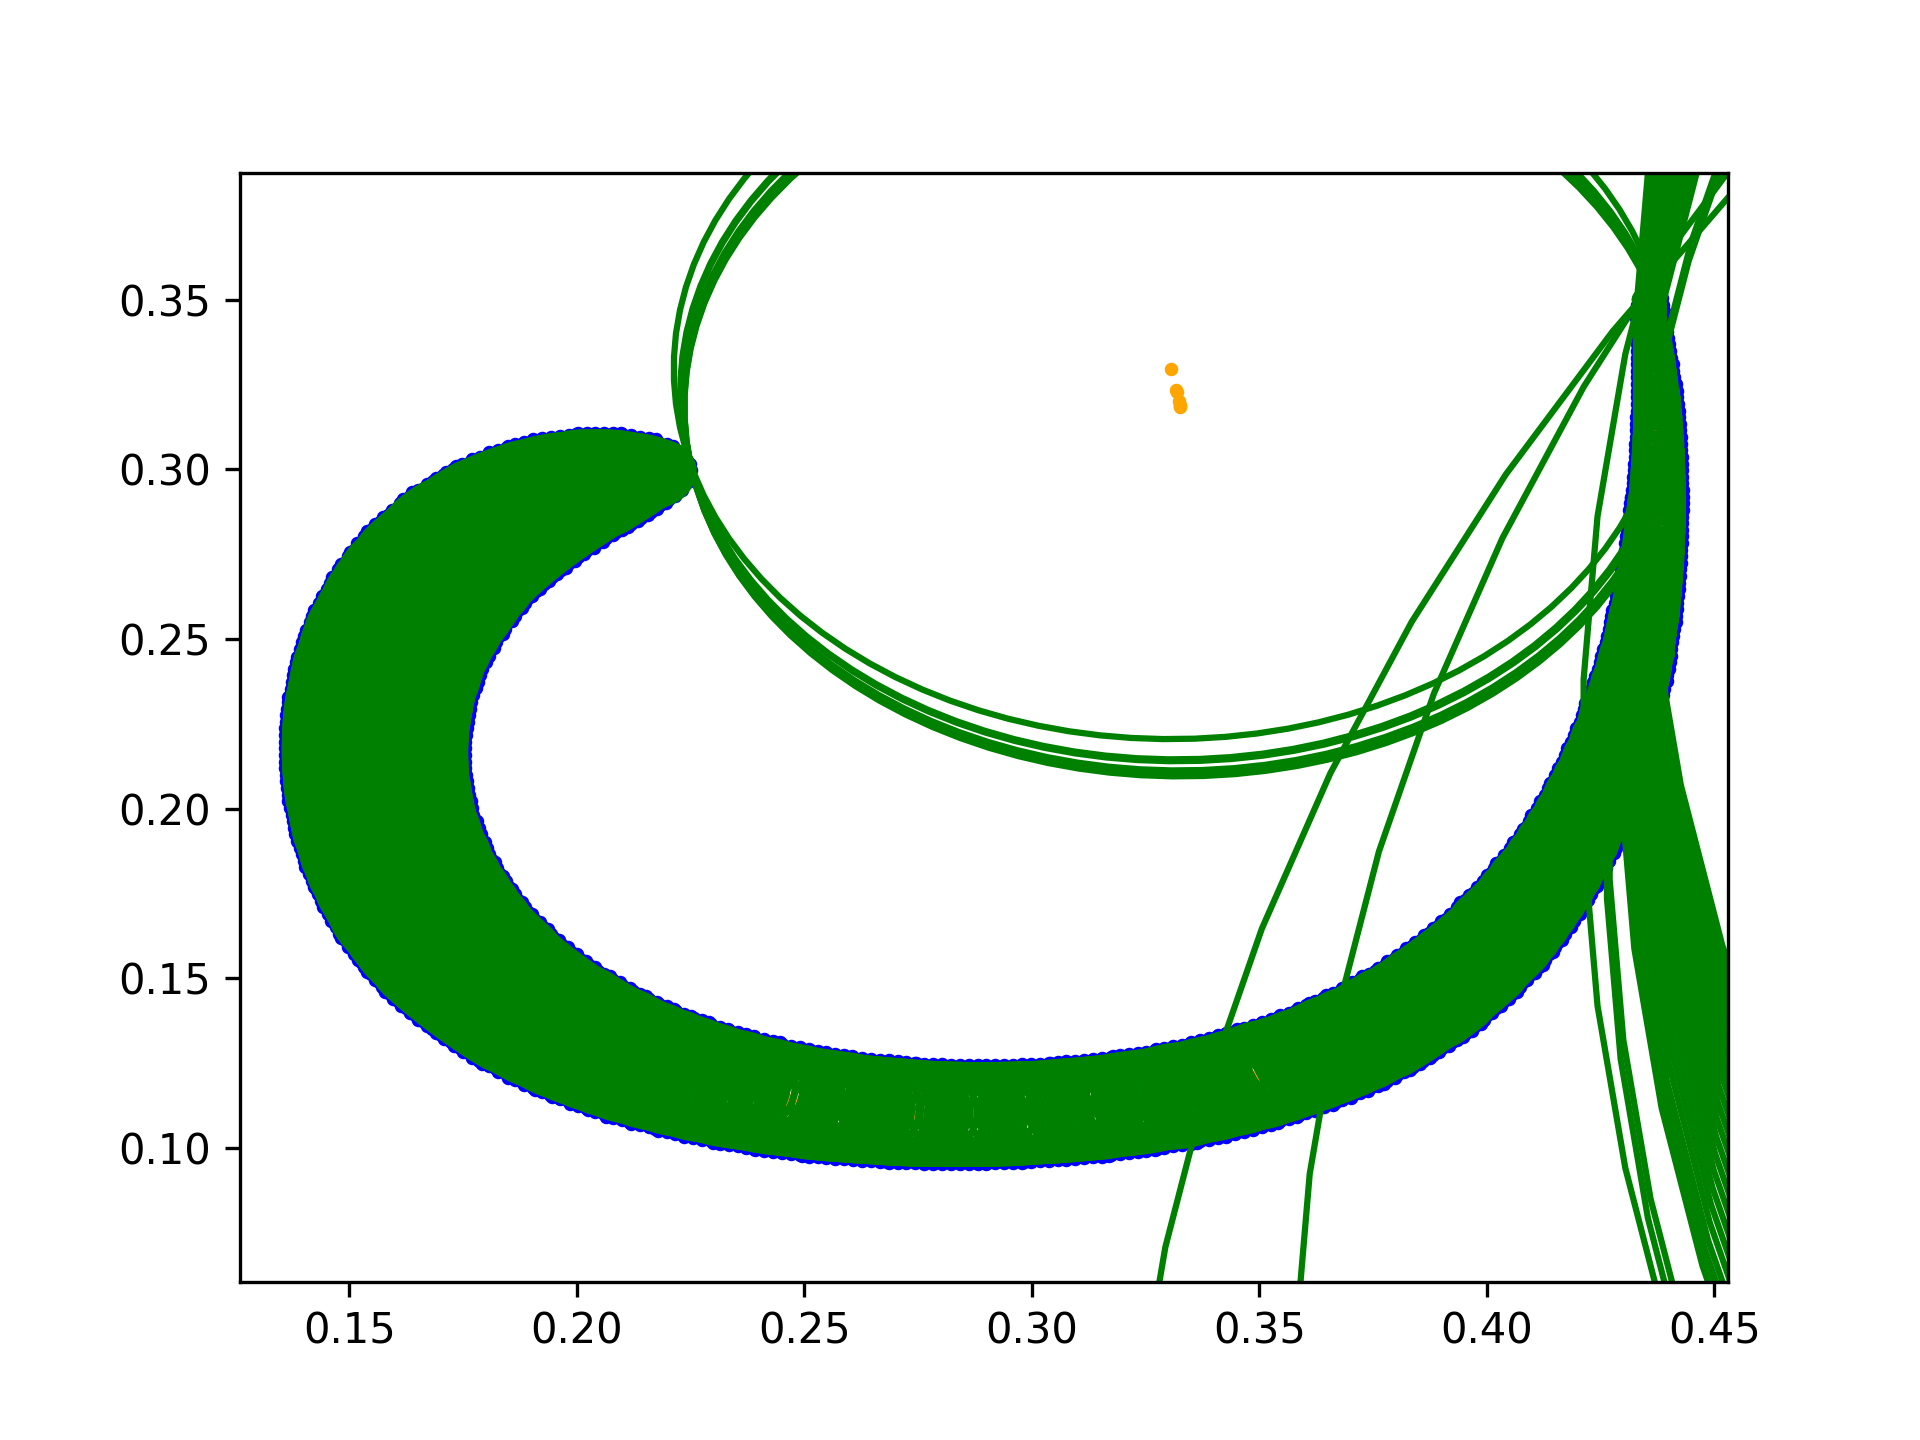
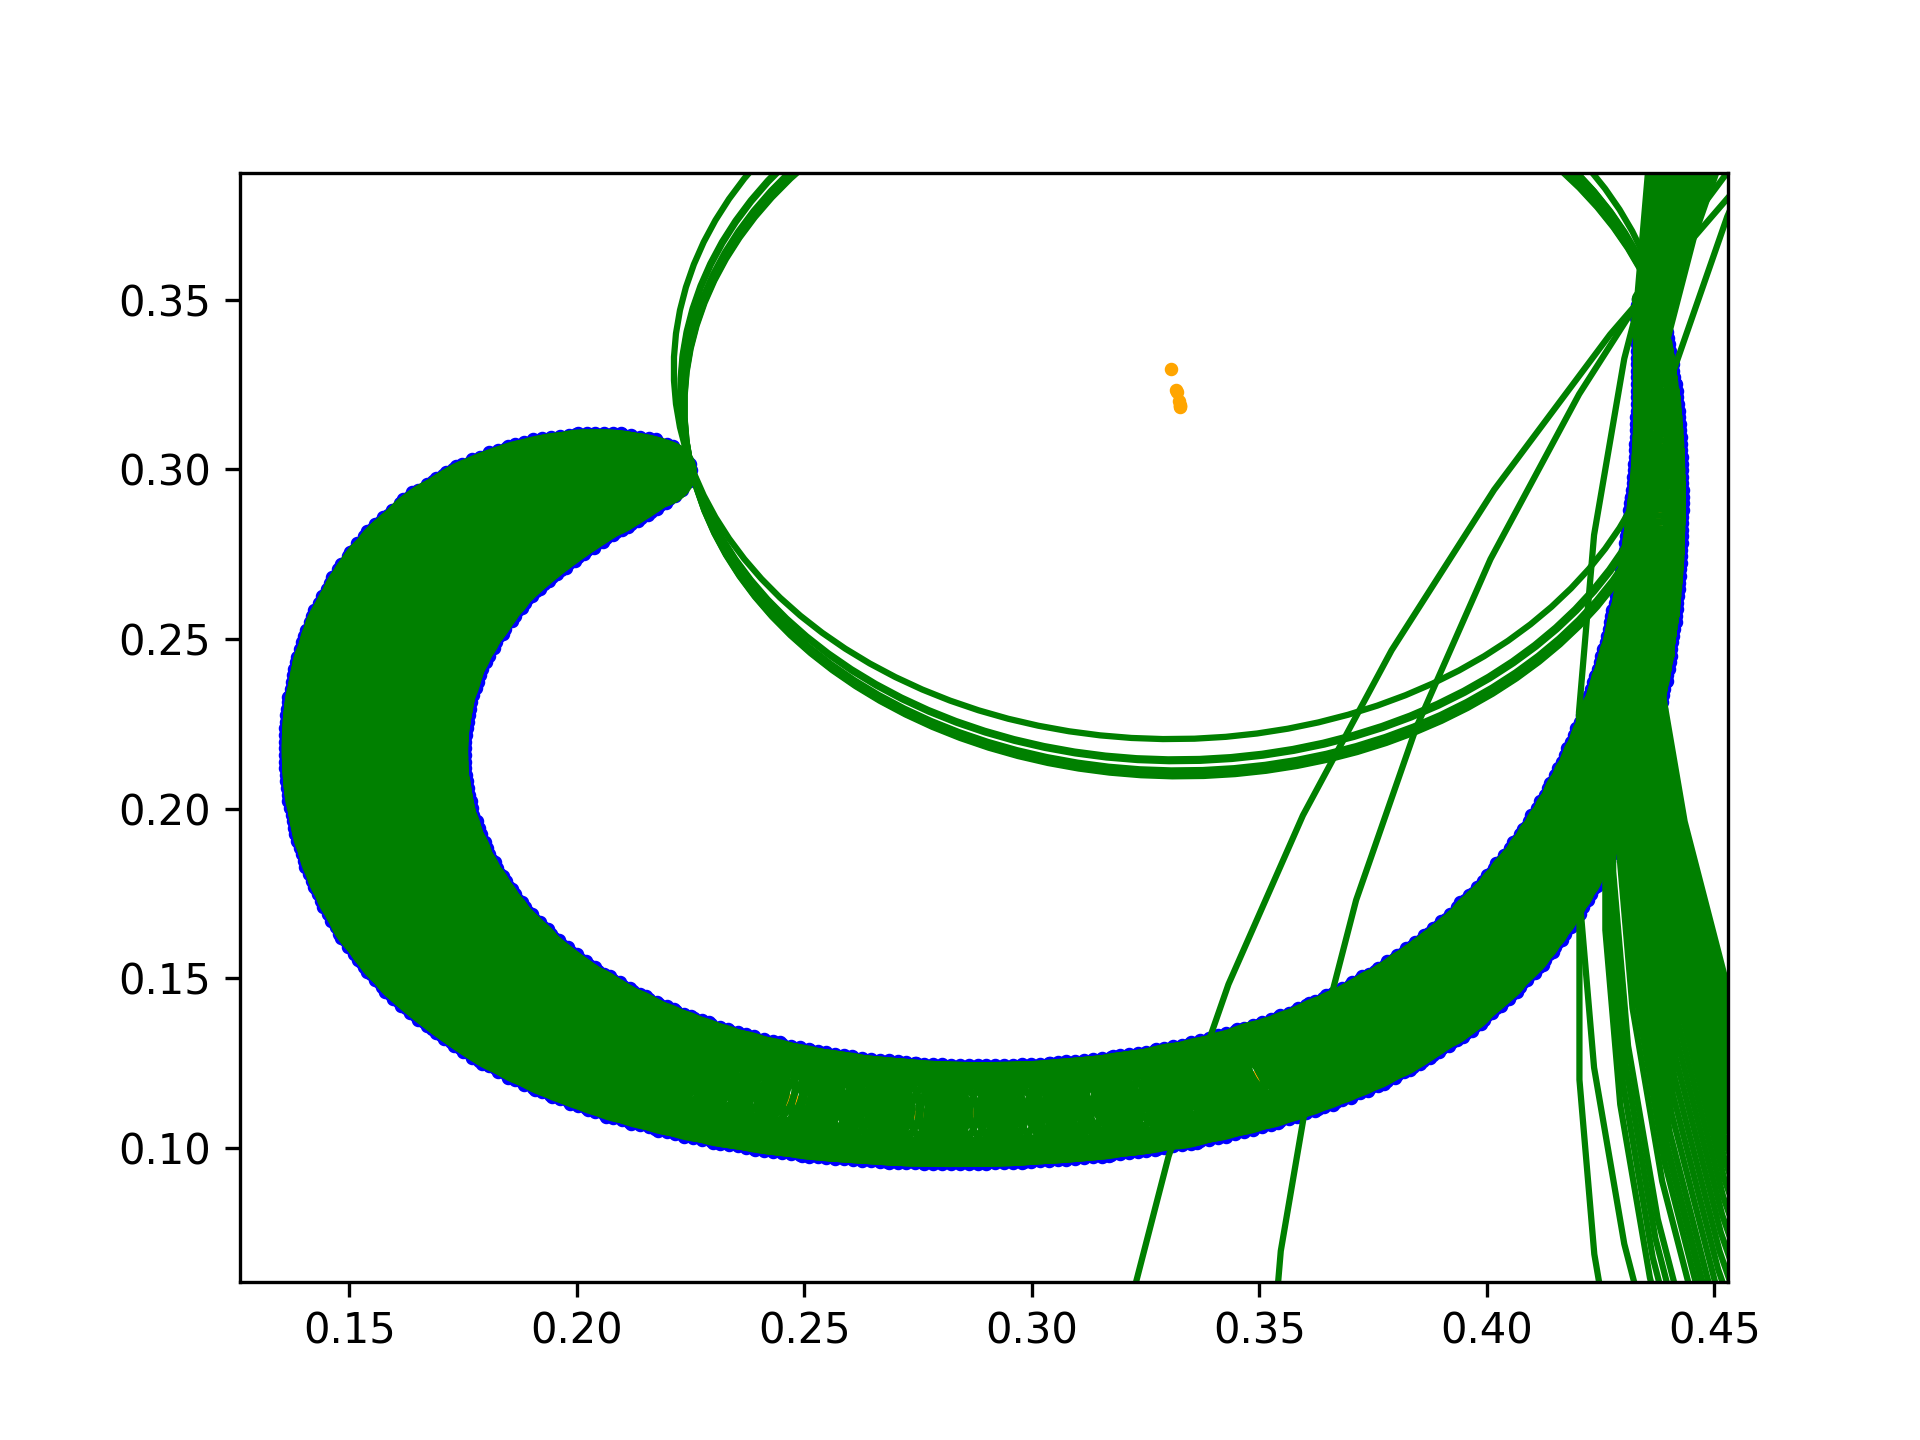
modified:   DataStructures.py 	modified:   Output.png 	modified:   OutputNoRad.png 	modified:   SkeleNet.py 	modified:   SkeleSave.dat 	modified:   __pycache__/SkeleNet.cpython-36.pyc

diff --git a/DataStructures.py b/DataStructures.py
@@ -441,31 +441,48 @@ class kdTree:
         retpts = []
         retdev = []
         if not(self.split):
+           # i = 0
+           # while i < len(self.points):
+           #     tvec = []
+           #     j = 0
+           #     while j < self.points[i].dimensions:
+           #         tvec.append(self.points[i].getAxis(j) - point[j])
+           #         j += 1 
+           #     tvec = normalize([tvec])
+           #     dev = getDeviation(tvec[0],vector)
+           #     if len(retpts) < n:
+           #         retpts.append(self.points[i])
+           #         retdev.append(dev)
+           #     else:
+           #         q = 0
+           #         ind = -1
+           #         tlow = 1.1
+           #         while q < len(retpts):
+           #             if retdev[q] < tlow: 
+           #                 tlow =  retdev[q]
+           #                 ind = q
+           #             q += 1
+           #         if retdev[ind] < dev:
+           #             retdev[ind] = dev
+           #             retpts[ind] = self.points[i]
+           #     i += 1
             i = 0
+            low = 0
+            ind = -1
             while i < len(self.points):
                 tvec = []
                 j = 0
                 while j < self.points[i].dimensions:
                     tvec.append(self.points[i].getAxis(j) - point[j])
-                    j += 1 
+                    j += 1
                 tvec = normalize([tvec])
                 dev = getDeviation(tvec[0],vector)
-                if len(retpts) < n:
-                    retpts.append(self.points[i])
-                    retdev.append(dev)
-                else:
-                    q = 0
-                    ind = -1
-                    tlow = 1.1
-                    while q < len(retpts):
-                        if retdev[q] < tlow: 
-                            tlow =  retdev[q]
-                            ind = q
-                        q += 1
-                    if retdev[ind] < dev:
-                        retdev[ind] = dev
-                        retpts[ind] = self.points[i]
-                i += 1 
+                if dev > low:
+                    low = dev
+                    ind = i
+                i += 1
+            retpts.append(self.points[ind])
+            retdev.append(low)
         else:
             node = self.node
             #How to determine which nodes to search through.
@@ -478,50 +495,51 @@ class kdTree:
             else:
                 retptsl,retdevl =  self.leafL.getVectorR(data)
                 retptsr,retdevr = self.leafR.getVectorR(data)
-                i = 0
-                while i < len(retptsl):
-                    if len(retpts) < n:
-                        retpts.append(retptsl[i])
-                        retdev.append(retdevl[i])
-                    else:
-                        j = 0
-                        ind = -1
-                        tlow = 1.1
-                        while j < len(retpts):
-                            if retdev[j] < tlow:
-                                tlow = retdev[j]
-                                ind = j
-                            j += 1
-                        if retdev[ind] < retdevl[i]:
-                            retdev[ind] = retdevl[i]
-                            retpts[ind] = retptsl[i]      
-                    i += 1
-                i = 0
-                while i < len(retptsr):
-                    if len(retpts) < n:
-                        retpts.append(retptsr[i])
-                        retdev.append(retdevr[i])
-                    else:
-                        j = 0
-                        ind = -1
-                        tlow = 1.1
-                        while j < len(retpts):
-                            if retdev[j] < tlow:
-                                tlow = retdev[j]
-                                ind = j
-                            j += 1
-                        if retdev[ind] < retdevr[i]:
-                            retdev[ind] = retdevr[i]
-                            retpts[ind] = retptsr[i]      
-                    i += 1
-            if len(retpts) < n:
-                q = 0
-                tv = 0
-                while q < self.dim:
-                    tv.append(node.getAxis(q) - point[q])
-                    q += 1
-                retpts.append(node)
-                retdev.append(getDeviation(vector,tv))
+                # i = 0
+                # while i < len(retptsl):
+                #     if len(retpts) < n:
+                #         retpts.append(retptsl[i])
+                #         retdev.append(retdevl[i])
+                #     else:
+                #         j = 0
+                #         ind = -1
+                #         tlow = 1.1
+                #         while j < len(retpts):
+                #             if retdev[j] < tlow:
+                #                 tlow = retdev[j]
+                #                 ind = j
+                #             j += 1
+                #         if retdev[ind] < retdevl[i]:
+                #             retdev[ind] = retdevl[i]
+                #             retpts[ind] = retptsl[i]      
+                #     i += 1
+                # i = 0
+                # while i < len(retptsr):
+                #     if len(retpts) < n:
+                #         retpts.append(retptsr[i])
+                #         retdev.append(retdevr[i])
+                #     else:
+                #         j = 0
+                #         ind = -1
+                #         tlow = 1.1
+                #         while j < len(retpts):
+                #             if retdev[j] < tlow:
+                #                 tlow = retdev[j]
+                #                 ind = j
+                #             j += 1
+                #         if retdev[ind] < retdevr[i]:
+                #             retdev[ind] = retdevr[i]
+                #             retpts[ind] = retptsr[i]      
+                #     i += 1
+                
+            # if len(retpts) < n:
+            #     q = 0
+            #     tv = 0
+            #     while q < self.dim:
+            #         tv.append(node.getAxis(q) - point[q])
+            #         q += 1
+            #     retpts.append(node)
+            #     retdev.append(getDeviation(vector,tv))
         return retpts,retdev
                 
                 

diff --git a/SkeleNet.py b/SkeleNet.py
@@ -187,7 +187,8 @@ def skeletize(points : list,norms : list,threshDistance : float,tree : kdTree,an
                 # crossp = results[0]
                 # tpool.close
                 vpts,vdev = tree.getVectorR(inputdat[0]) 
-                print(vpts,vdev)
+                print(point,norm,'-->',vpts[0].getPoint())
+                print(vdev,getDistance(point,vpts[0].getPoint()))
                 crossp = vpts[0] 
                 crossdis = getDistance(point,crossp.getPoint())
                 if getDistance(point,centerp[leng]) < crossdis:
